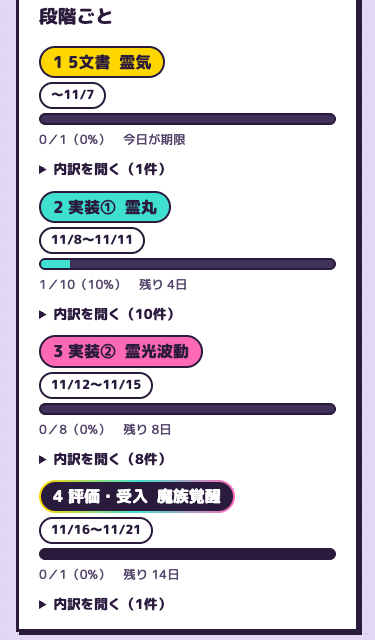
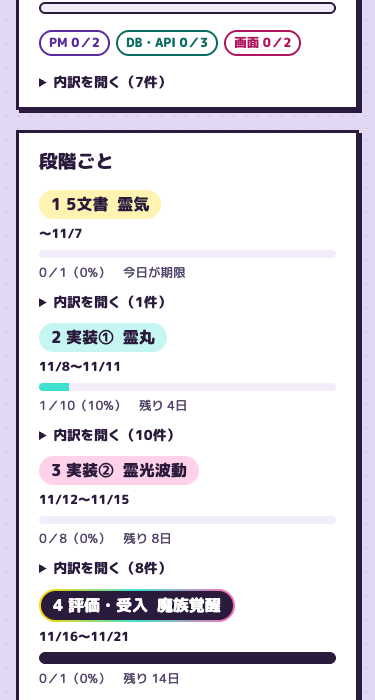
feat: 進捗の段階1〜3の札とバーを軽くする（STAGE 4 だけ目立たせる）

diff --git a/scripts/test_build_progress.py b/scripts/test_build_progress.py
@@ -419,7 +419,9 @@ class T(unittest.TestCase):
         self.assertIn(".stg2 li.w4 .sn{border-color:transparent;background:linear-gradient(#2A1B3D,#2A1B3D) padding-box,linear-gradient(to right,var(--m1),var(--m2),var(--m3)) border-box;color:#FFFFFF}", out)  # 紺の地＋3色のふち・白文字
         self.assertIn(".stg2 li.w4 .bar{background:#2A1B3D}.stg2 li.w4 .bar i{background:linear-gradient(to right,var(--m1),var(--m2),var(--m3))}", out)  # バーは紺の地、溜まった分だけ3色
         self.assertIn(".stg2 li[class] .sn{white-space:nowrap}", out)
-        self.assertIn(".stg2 li[class] .bar{background:#3F3158}", out)  # 暗い棒の地の上で3色が見える
+        self.assertIn(".stg2 li.w1 .bar,.stg2 li.w2 .bar,.stg2 li.w3 .bar{height:8px;border:0;background:var(--tint)}", out)  # 段1〜3は細く薄い紫の地（STAGE 4 だけ紺）
+        self.assertIn(".stg2 li.w1 .sn,.stg2 li.w2 .sn,.stg2 li.w3 .sn{border:0;background:color-mix(in srgb,var(--c) 30%,transparent);color:#2A1B3D}", out)  # 段1〜3の札は枠なしの薄い塗り
+        self.assertIn(".stg2>ul>li>.chip{border:0;background:none;padding:0;color:var(--ctext)}", out)  # 日付は枠なしの文字
 
     def test_area_badges(self):
         out = bp.render(model(), "x")
@@ -460,8 +462,8 @@ class T(unittest.TestCase):
                 self.assertGreaterEqual(ratio(c, bg), 4.5, (k, bg))
         for c in ("#FFD700", "#40E0D0", "#FF69B4"):  # 段階の見出しの地の色 × 文字色 #2A1B3D
             self.assertGreaterEqual(ratio("#2A1B3D", c), 4.5, c)
-        for c in ("#FFD700", "#40E0D0", "#FF69B4"):  # 棒の色は暗い棒の地（#3F3158）の上で見える（3:1 以上）
-            self.assertGreaterEqual(ratio(c, "#3F3158"), 3, c)
+        for c in ("#FFD700", "#40E0D0", "#FF69B4"):  # STAGE 4 の棒の3色は紺の地（#2A1B3D）の上で見える（3:1 以上）
+            self.assertGreaterEqual(ratio(c, "#2A1B3D"), 3, c)
 
     def test_pr_table_nowrap_and_short_date(self):
         out = bp.render(model(), "x")

diff --git a/scripts/build-progress.py b/scripts/build-progress.py
@@ -376,7 +376,10 @@ CSS = """
 .sb.gray{background:#E6E6EA;color:#34343E}.sb.blue{background:#D6E6FB;color:#0F3C78}.sb.green{background:#D3F0DC;color:#0B5A2A}.sb.red{background:#FBD9DC;color:#8A1020}
 .stg2 li.w1{--c:var(--m1)}.stg2 li.w2{--c:var(--m2)}.stg2 li.w3{--c:var(--m3)}.stg2 li.w4{--c:#2A1B3D}
 .stg2 li[class] .sn{display:inline-block;justify-self:start;padding:0 12px;border:var(--bw1) solid var(--line);border-radius:var(--rp);background:var(--c);color:#2A1B3D}.sn b{margin-left:4px}
-.stg2 li[class] .bar{background:#3F3158}.stg2 li[class] .bar i{background:var(--c)}
+.stg2 li[class] .bar i{background:var(--c)}
+.stg2 li.w1 .bar,.stg2 li.w2 .bar,.stg2 li.w3 .bar{height:8px;border:0;background:var(--tint)}
+.stg2 li.w1 .sn,.stg2 li.w2 .sn,.stg2 li.w3 .sn{border:0;background:color-mix(in srgb,var(--c) 30%,transparent);color:#2A1B3D}
+.stg2>ul>li>.chip{border:0;background:none;padding:0;color:var(--ctext)}
 .stg2 li[class] .sn{white-space:nowrap}
 .stg2 li.w4 .sn{border-color:transparent;background:linear-gradient(#2A1B3D,#2A1B3D) padding-box,linear-gradient(to right,var(--m1),var(--m2),var(--m3)) border-box;color:#FFFFFF}
 .stg2 li.w4 .bar{background:#2A1B3D}.stg2 li.w4 .bar i{background:linear-gradient(to right,var(--m1),var(--m2),var(--m3))}
